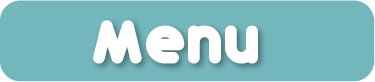
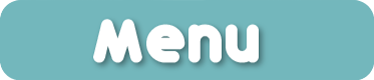
Добавлена кнопка EXIT и кнопка MENU в игре

diff --git a/home_layer.py b/home_layer.py
@@ -6,39 +6,64 @@ from buttons import Button
 class HomeLayer:
     def __init__(self):
         # Флаг запуска основного цикла слоя.
+
         self.state = "home"
+        self.flag = True
         # Настройки фпс.
         self.clock = pg.time.Clock()
         self.fps = Screen.fps.value
-        self.button = Button(
+        self.button_game = Button(
             "asset/72ppi/button_game.png",
             "asset/72ppi/button_game_pr.png",
             "asset/72ppi/button_game_cl.png",
             Coords(Screen.screen_width.value // 2,
                    Screen.screen_height.value // 3 * 2)
         )
+        self.button_exit = Button(
+            "asset/72ppi/button_exit.png",
+            "asset/72ppi/button_exit_pr.png",
+            "asset/72ppi/button_exit_cl.png",
+            Coords(Screen.screen_width.value // 2,
+                   Screen.screen_height.value // 6 * 5)
+        )
+
+        self.home_logo = pg.image.load("asset/72ppi/Asset 26-01.png").convert_alpha()
+        self.home_logo_scale = pg.transform.smoothscale(self.home_logo,
+                                                        (self.home_logo.get_width()*0.8,
+                                                         self.home_logo.get_height() * 0.8))
+        self.home_logo_rect = self.home_logo_scale.get_rect(
+            center=(Screen.screen_width.value // 2,
+                    Screen.screen_height.value // 3))
 
     def create_layer(self, screen: pg.surface.Surface) -> None:
         """Создает основной цикл слоя"""
 
         self.clock.tick(self.fps)
+
         screen.fill(Colors.light_blue.value)
-        self.button.button_blit(screen)
-        Drawer.draw_text("Bingo!",
-                         Fonts.font_text3.value,
-                         Fonts.home_screen_font_logo_size.value,
-                         screen, Colors.pink.value, None,
-                         Coords(Screen.screen_width.value // 2,
-                                Screen.screen_height.value // 4))
+        self.button_game.button_blit(screen)
+        self.button_exit.button_blit(screen)
+        screen.blit(self.home_logo_scale, self.home_logo_rect)
+        # Drawer.draw_text("Bingo!",
+        #                  Fonts.font_text3.value,
+        #                  Fonts.home_screen_font_logo_size.value,
+        #                  screen, Colors.pink.value, None,
+        #                  Coords(Screen.screen_width.value // 2,
+        #                         Screen.screen_height.value // 4))
         pg.display.update()
 
     def check_events_home(self) -> str:
         """Проверяет события"""
         mouse_pos = pg.mouse.get_pos()
-        if self.button.rect.collidepoint(mouse_pos):
-            self.button.image = self.button.image_pr
+        if self.button_game.rect.collidepoint(mouse_pos):
+            self.button_game.image = self.button_game.image_pr
         else:
-            self.button.image = self.button.image_initial
+            self.button_game.image = self.button_game.image_initial
+
+        if self.button_exit.rect.collidepoint(mouse_pos):
+            self.button_exit.image = self.button_exit.image_pr
+        else:
+            self.button_exit.image = self.button_exit.image_initial
 
         for event in pg.event.get():
             if event.type == pg.QUIT:
@@ -51,6 +76,15 @@ class HomeLayer:
                 if event.key == pg.K_SPACE:
                     return "game"
             elif event.type == pg.MOUSEBUTTONDOWN and event.button == 1 \
-                    and self.button.rect.collidepoint(mouse_pos):
-                self.button.image = self.button.image_cl
+                    and self.button_game.rect.collidepoint(mouse_pos):
+                self.button_game.image = self.button_game.image_cl
                 return "game"
+
+            elif event.type == pg.MOUSEBUTTONDOWN and event.button == 1 \
+                    and self.button_exit.rect.collidepoint(mouse_pos):
+                self.button_exit.image = self.button_game.image_cl
+                pg.quit()
+                sys.exit()
+            elif event.type == pg.MOUSEBUTTONUP and event.button == 1:
+                self.button_game.image = self.button_game.image_initial
+                self.button_exit.image = self.button_exit.image_initial

diff --git a/game_layer.py b/game_layer.py
@@ -7,7 +7,7 @@ from utilities import Utilities
 from sprites import TextCard
 from draw import Drawer
 from sounds import Sounds
-from typing import Callable
+from buttons import Button
 
 
 class GameLayer:
@@ -16,10 +16,13 @@ class GameLayer:
         self.screen = surface
         self.state = "game"
         self.state_temp = "game"
+        self.flag = True
+
         # Настройки фпс.
         self.clock = pg.time.Clock()
         self.fps = Screen.fps.value
-
+        last = pg.time.get_ticks()
+        print(last)
         # Поверхность слоя.
         self.layer_game = pg.Surface((Screen.screen_width.value,
                                       Screen.screen_height.value))
@@ -39,15 +42,22 @@ class GameLayer:
 
         self.score_image_player1_rect = self.score_image_player1.get_rect(
             center=(
-            Screen.screen_width.value // 2, Screen.screen_height.value // 6))
+                Screen.screen_width.value // 2,
+                Screen.screen_height.value // 6))
         self.score_image_player2_rect = self.score_image_player2.get_rect(
             center=(
-            Screen.screen_width.value // 2, Screen.screen_height.value // 3))
+                Screen.screen_width.value // 2,
+                Screen.screen_height.value // 3))
         # Экземпляры классов.
         self.pouch = Pouch()
         self.card = Card()
         self.card_enemy = Card()
-
+        self.button_menu = Button(
+            "asset/72ppi/button_menu.png",
+            "asset/72ppi/button_menu_pr.png",
+            "asset/72ppi/button_menu_cl.png",
+            Coords(Screen.screen_width.value // 6,
+                   Screen.screen_height.value // 10 * 9))
         # Вывод проверки выигрыша.
         self.win = "Win"
         self.win_enemy = ""
@@ -70,7 +80,6 @@ class GameLayer:
         self.coord_list_checks_enemy = []
 
         # Заполняем все списки
-        self.get_all()
 
     def get_all(self):
 
@@ -83,6 +92,7 @@ class GameLayer:
         self.pouch.draw_pouch_bg(self.layer_game)
         self.score_player1 = 0
         self.score_player2 = 0
+        self.button_menu.image = self.button_menu.image_initial
 
     def get_pos_numbers_text(self):
         self.pos_numbers_text = None
@@ -129,6 +139,8 @@ class GameLayer:
         # Помещаем основной слой.
         self.screen.blit(self.layer_game, (0, 0))
 
+        self.button_menu.button_blit(self.layer_game)
+
         self.layer_game.blit(self.card.image, (25, 25))
         self.layer_game.blit(self.card.image2, (910 - 25, 25))
 
@@ -160,8 +172,13 @@ class GameLayer:
         """Проверяет события"""
         mouse_pos = pg.mouse.get_pos()
 
-        for event in pg.event.get():
 
+        if self.button_menu.rect.collidepoint(mouse_pos):
+            self.button_menu.image = self.button_menu.image_pr
+        else:
+            self.button_menu.image = self.button_menu.image_initial
+
+        for event in pg.event.get():
             if event.type == pg.QUIT:
                 pg.quit()
                 sys.exit()
@@ -172,6 +189,7 @@ class GameLayer:
                     self._k_e_function()
                 if event.key == pg.K_ESCAPE:
                     self.layer_game.fill(Colors.blue.value)
+                    self.flag = False
                     return "home"
                 else:
                     continue
@@ -179,6 +197,13 @@ class GameLayer:
                     self.pouch.rect.collidepoint(
                         mouse_pos):
                 self._k_e_function()
+            elif event.type == pg.MOUSEBUTTONDOWN and event.button == 1 \
+                    and self.button_menu.rect.collidepoint(mouse_pos):
+                self.button_menu.image = self.button_menu.image_cl
+                self.flag = False
+                return "home"
+            elif event.type == pg.MOUSEBUTTONUP and event.button == 1:
+                self.button_menu.image = self.button_menu.image_initial
 
     def _k_e_function(self) -> None:
         """Работа кнопки 'Е' """

diff --git a/state_manager.py b/state_manager.py
@@ -1,3 +1,4 @@
+import pygame as pg
 from home_layer import HomeLayer
 from game_layer import GameLayer
 
@@ -14,11 +15,16 @@ class StateManager:
             self.home_layer.create_layer(self.surface)
             temp = self.home_layer.check_events_home()
             if temp == "game":
+                self.game_layer.get_all()
                 self.state = "game"
+                pg.time.wait(200)
+
+                self.game_layer.flag = True
 
         elif self.state == "game":
             self.game_layer.create_layer()
             temp = self.game_layer.check_events_game()
             if temp == "home":
-                self.game_layer.get_all()
+
                 self.state = "home"
+                self.home_layer.flag = True
